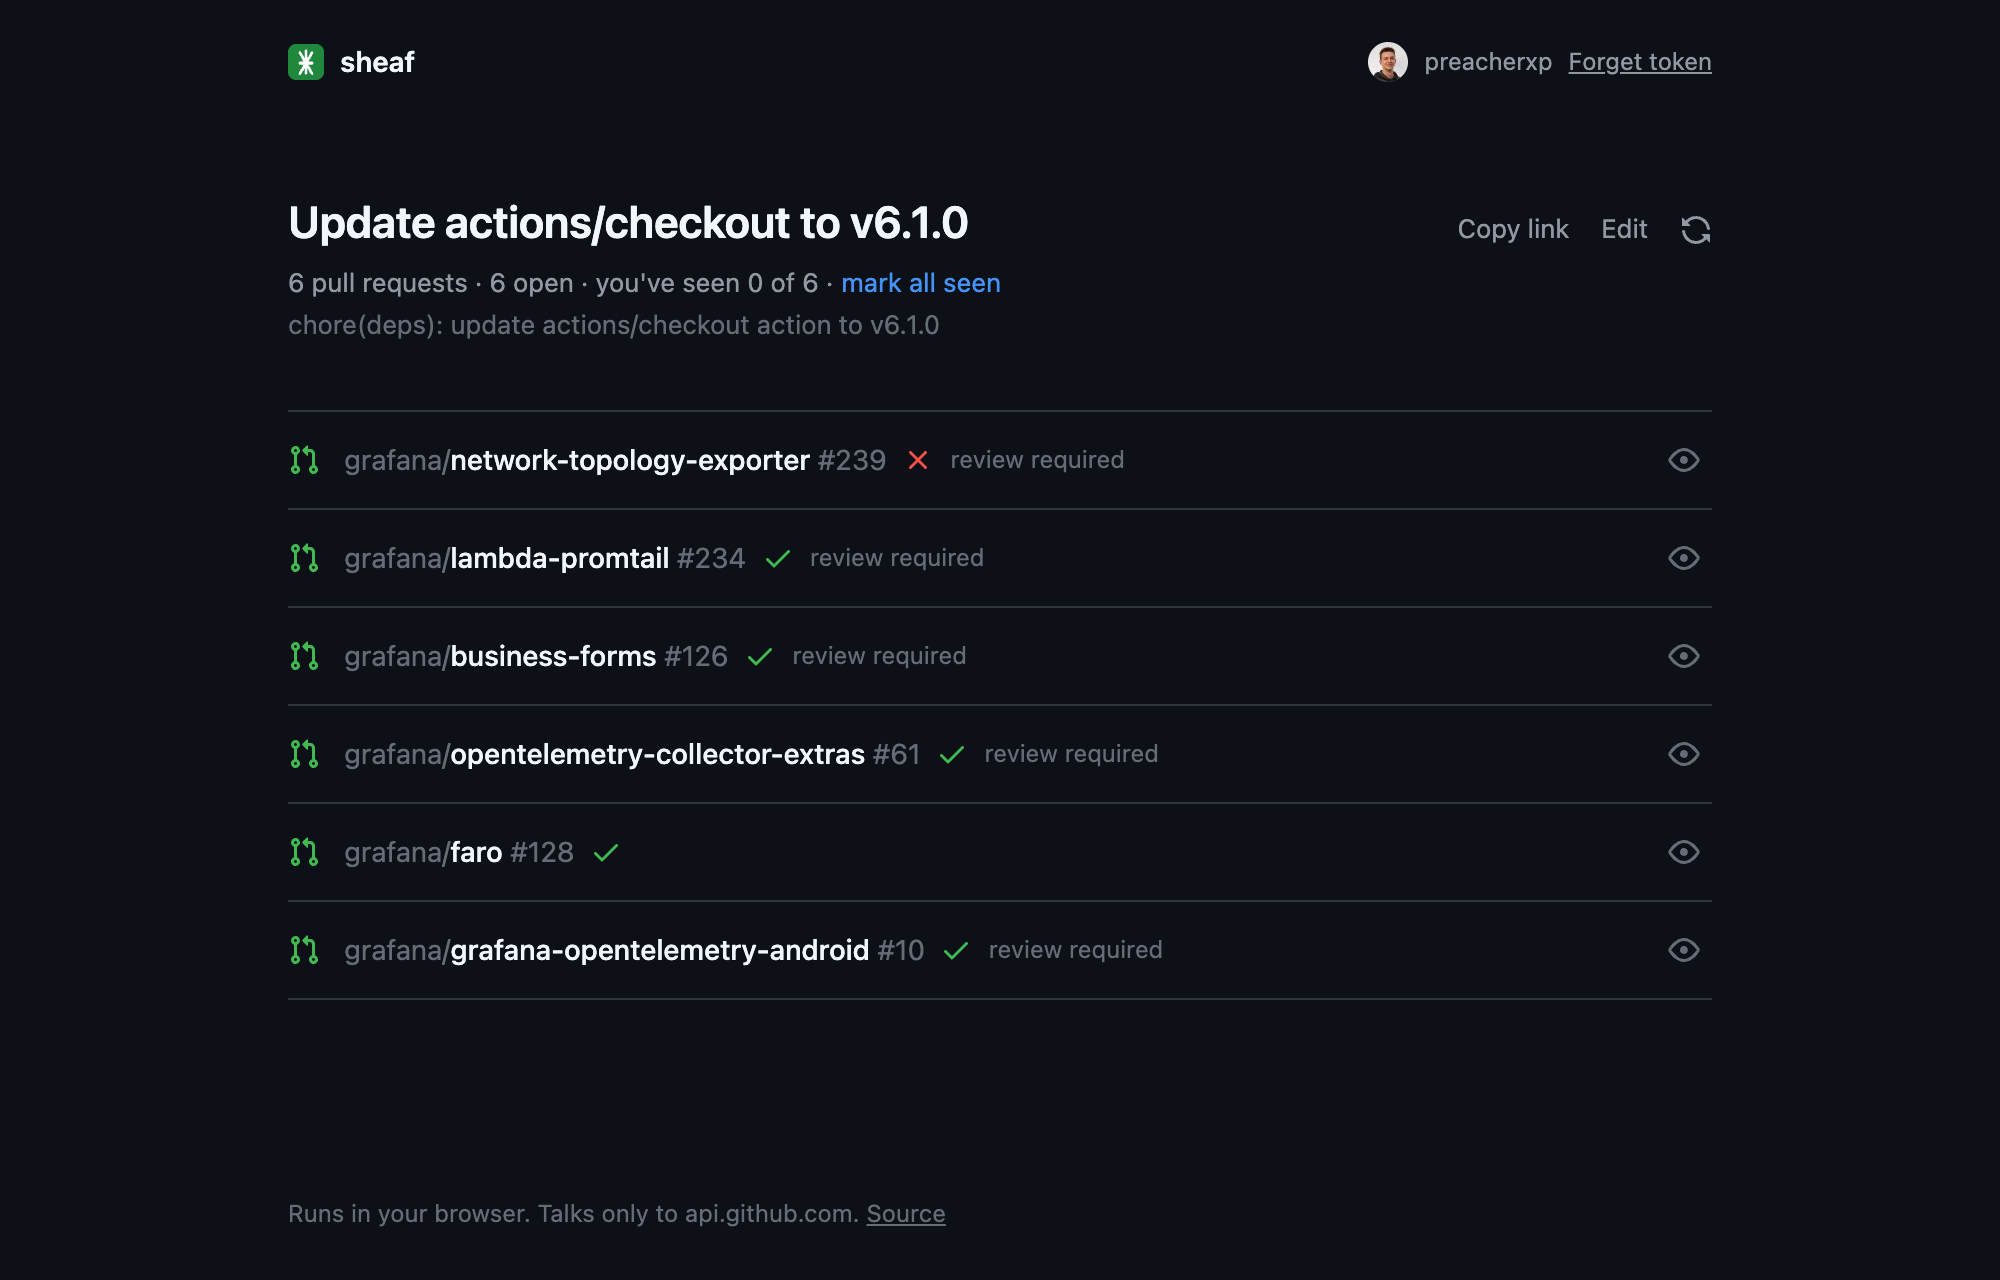
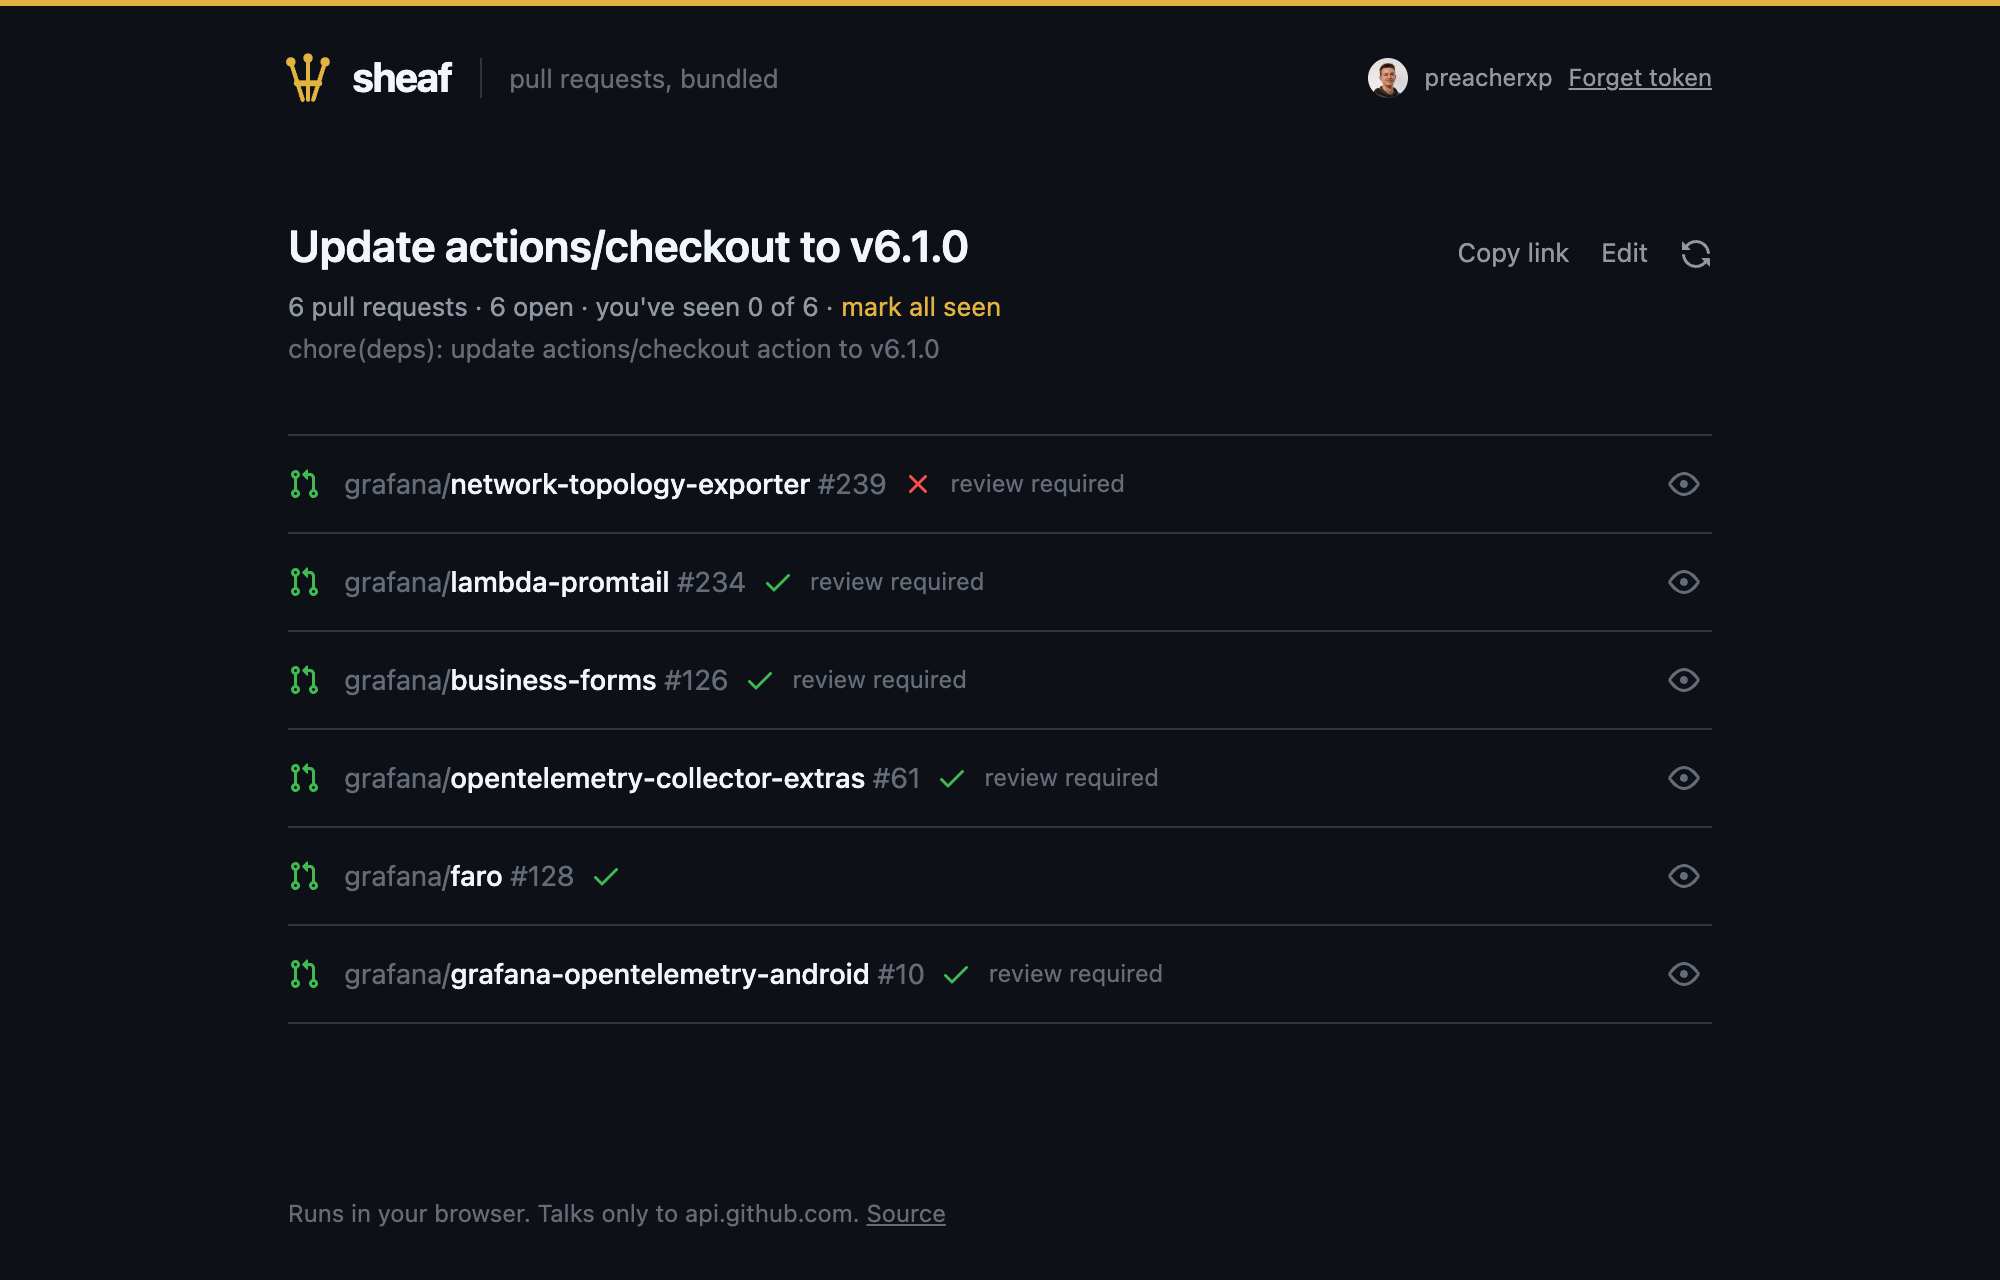
Own mark and header: a sheaf of three PRs, wheat gold accent

diff --git a/style.css b/style.css
@@ -1,7 +1,7 @@
-/* GitHub's palette and type, with almost none of its chrome. */
+/* GitHub's neutrals and type, a wheat gold of its own, almost none of GitHub's chrome. */
 :root {
   --bg: #ffffff; --fg: #1f2328; --muted: #59636e; --faint: #818b98; --line: #d1d9e0b3; --hover: #f6f8fa;
-  --accent: #0969da; --accent-bg: #ddf4ff;
+  --accent: #9a6700; --accent-bg: #fff8c5;
   --open: #1a7f37; --merged: #8250df; --closed: #d1242f; --wait: #9a6700;
   --font: -apple-system, BlinkMacSystemFont, "Segoe UI", "Noto Sans", Helvetica, Arial, sans-serif;
   --mono: ui-monospace, SFMono-Regular, "SF Mono", Menlo, Consolas, monospace;
@@ -9,14 +9,14 @@
 @media (prefers-color-scheme: dark) {
   :root {
     --bg: #0d1117; --fg: #f0f6fc; --muted: #9198a1; --faint: #656c76; --line: #3d444db3; --hover: #151b23;
-    --accent: #4493f8; --accent-bg: #388bfd1f;
+    --accent: #e3b341; --accent-bg: #bb800926;
     --open: #3fb950; --merged: #ab7df8; --closed: #f85149; --wait: #d29922;
   }
 }
 
 * { box-sizing: border-box; }
 html { background: var(--bg); color: var(--fg); font: 14px/1.5 var(--font); }
-body { margin: 0; min-height: 100vh; display: flex; flex-direction: column; }
+body { margin: 0; min-height: 100vh; display: flex; flex-direction: column; border-top: 3px solid var(--accent); }
 main { flex: 1; }
 a { color: var(--accent); text-decoration: none; }
 a:hover { text-decoration: underline; }
@@ -25,10 +25,12 @@ button { font: inherit; color: inherit; }
 :focus-visible { outline: 2px solid var(--accent); outline-offset: 2px; border-radius: 4px; }
 .wrap { max-width: 760px; margin: 0 auto; padding: 56px 24px 48px; }
 
-.top { display: flex; align-items: center; gap: 12px; max-width: 760px; width: 100%; margin: 0 auto; padding: 20px 24px 0; }
-.brand { display: flex; align-items: center; gap: 8px; padding: 3px 0; color: var(--fg); font-weight: 600; }
-.brand img { width: 18px; height: 18px; }
+.top { display: flex; align-items: center; gap: 14px; max-width: 760px; width: 100%; margin: 0 auto; padding: 22px 24px 0; }
+.brand { display: flex; align-items: center; gap: 8px; margin-left: -4px; color: var(--fg); }
+.brand img { display: block; }
 .brand:hover { text-decoration: none; }
+.word { font-size: 20px; font-weight: 700; letter-spacing: -0.03em; line-height: 1; }
+.tag { padding-left: 14px; border-left: 1px solid var(--line); color: var(--faint); font-size: 13px; line-height: 20px; }
 .who { margin-left: auto; display: flex; align-items: center; gap: 8px; color: var(--muted); font-size: 12px; }
 .foot { max-width: 760px; width: 100%; margin: 0 auto; padding: 24px; color: var(--faint); font-size: 12px; }
 .foot a { color: inherit; text-decoration: underline; }
@@ -37,7 +39,7 @@ button { font: inherit; color: inherit; }
 .avatar { border-radius: 50%; background: var(--hover); }
 
 .btn {
-  height: 32px; padding: 0 14px; font-weight: 500; color: var(--bg); background: var(--fg);
+  height: 32px; padding: 0 14px; white-space: nowrap; font-weight: 500; color: var(--bg); background: var(--fg);
   border: 0; border-radius: 6px; cursor: pointer;
 }
 .btn:disabled { opacity: .35; cursor: default; }
@@ -62,7 +64,7 @@ textarea.input { font: 13px/1.7 var(--mono); resize: vertical; }
 .lede { color: var(--muted); margin: 0 0 32px; }
 .compose { display: grid; gap: 4px; }
 .compose label { color: var(--muted); font-size: 12px; margin-top: 16px; }
-.compose-foot { display: flex; align-items: center; justify-content: space-between; margin-top: 16px; }
+.compose-foot { display: flex; align-items: center; justify-content: space-between; gap: 16px; margin-top: 16px; }
 .hint { color: var(--faint); font-size: 12px; margin: 0; }
 .bad { color: var(--closed); }
 
@@ -124,6 +126,7 @@ textarea.input { font: 13px/1.7 var(--mono); resize: vertical; }
 @media (prefers-reduced-motion: reduce) { .spin svg { animation: none; } }
 
 @media (max-width: 600px) {
+  .tag { display: none; }
   /* title, stats, then the actions, instead of actions wedged between title and stats */
   .head { grid-template-columns: 1fr; }
   .head .actions { order: 3; margin-top: 14px; }

diff --git a/index.html b/index.html
@@ -15,7 +15,8 @@
 </head>
 <body>
 <header class="top">
-  <a class="brand" href="./"><img src="favicon.svg" alt="" width="22" height="22"> sheaf</a>
+  <a class="brand" href="./" aria-label="sheaf, new bundle"><img src="mark.svg" alt="" width="28" height="28"><span class="word">sheaf</span></a>
+  <span class="tag">pull requests, bundled</span>
   <span id="who" class="who"></span>
 </header>
 <main id="app"></main>

diff --git a/README.md b/README.md
@@ -6,7 +6,7 @@
 
 A web page that turns the same pull request opened in many repositories into one link, showing each one's state, checks and review, and who has marked it 👀 seen.
 
-You paste the pull requests of one change, say a dependency bump in eight services, and get a link at [preacherxp.github.io/sheaf](https://preacherxp.github.io/sheaf/). Whoever opens it connects with their own GitHub token and sees every pull request in one quiet list in GitHub's colours: open, draft, merged or closed, whether checks pass, whether review is still required. The eye button puts a 👀 reaction on the pull request from your account, so the next person can tell at a glance which ones somebody has already looked at. There is no server: the list lives in the link, and the page talks only to GitHub.
+You paste the pull requests of one change, say a dependency bump in eight services, and get a link at [preacherxp.github.io/sheaf](https://preacherxp.github.io/sheaf/). Whoever opens it connects with their own GitHub token and sees every pull request in one quiet list: open, draft, merged or closed, whether checks pass, whether review is still required. The eye button puts a 👀 reaction on the pull request from your account, so the next person can tell at a glance which ones somebody has already looked at. There is no server: the list lives in the link, and the page talks only to GitHub.
 
 <p align="center"><img src="docs/hero.png" width="800" alt="sheaf in dark mode showing the bundle Update actions/checkout to v6.1.0, with the line 6 pull requests, 6 open, you've seen 0 of 6, mark all seen, and the shared Renovate title under it. Below, six Grafana pull requests as plain rows, from network-topology-exporter #239 with a red cross for failing checks to grafana-opentelemetry-android #10 with a green tick, most marked review required, each ending in an eye button."></p>
 
@@ -40,7 +40,7 @@ Any static host works the same way, GitHub Pages included. To uninstall, click *
 
 <p align="center"><img src="docs/connect.png" width="640" alt="A shared link before connecting: the bundle title and 6 pull requests, a Paste a GitHub token field with a blue Create one on GitHub link and a Connect button, a Remember on this device box and a note that the token goes only to api.github.com, then the six pull requests listed by repository and number."></p>
 
-- **Eye button.** At the end of each row. Click it to add your 👀 reaction to that pull request on GitHub, again to take it back. It turns blue while yours is on. Avatars of everyone who reacted 👀 sit next to it.
+- **Eye button.** At the end of each row. Click it to add your 👀 reaction to that pull request on GitHub, again to take it back. It turns gold while yours is on. Avatars of everyone who reacted 👀 sit next to it.
 - **mark all seen.** Adds 👀 to every pull request in the bundle you haven't marked yet.
 - **you've seen N of M.** Your own progress, in the line under the title. Avatars at the end of that line are the people who reacted 👀 on every one.
 - **Titles.** The title most pull requests share is shown once, under the bundle title. A row only shows its own title when it differs.
@@ -86,7 +86,8 @@ flowchart LR
 - **`index.html`** loads the page and sets the Content Security Policy that pins every request to `api.github.com` and avatars.
 - **`bundle.js`** reads and writes the `#t=…&p=owner/repo/123,…` fragment. It accepts pull request URLs and the short forms, drops duplicates and anything that isn't a valid owner, repository and number, so nothing from the link reaches a query unchecked.
 - **`app.js`** builds one GraphQL query per load with an alias for each pull request, passing names as variables, and renders the result with `textContent` only, so a pull request title can't inject markup. 👀 uses `addReaction` and `removeReaction`, then reloads.
-- **`style.css`** uses GitHub's colours and type for light and dark mode, without its boxes and pills.
+- **`style.css`** uses GitHub's neutrals, status colours and type for light and dark mode, with a wheat gold of its own for the mark, the seen state and links.
+- **`mark.svg`** is the mark: three pull requests, tied into one sheaf. `favicon.svg` is the same on a dark tile.
 - The Octicons are inlined from [primer/octicons](https://github.com/primer/octicons) (MIT).
 
 ## Development
